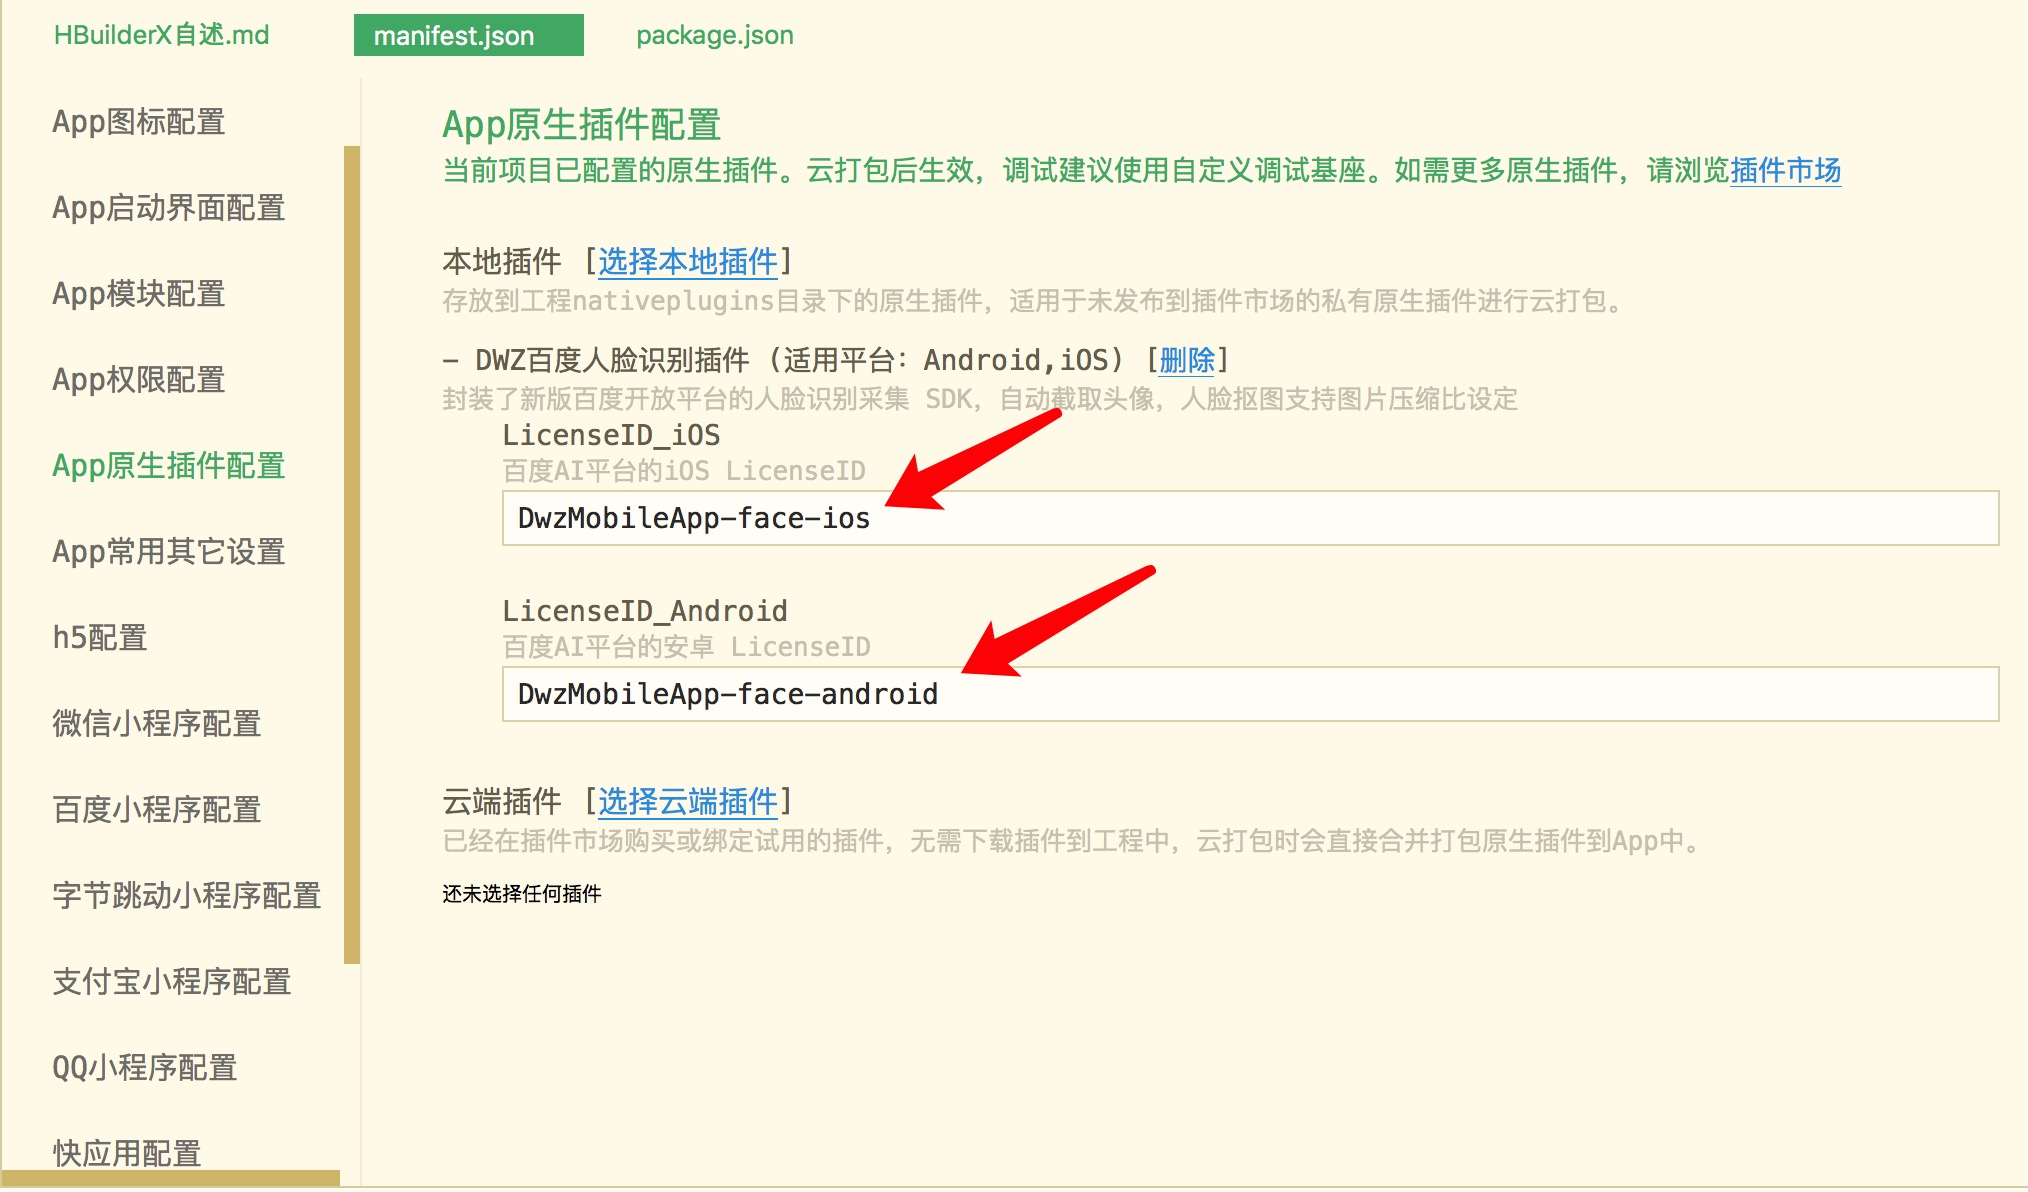
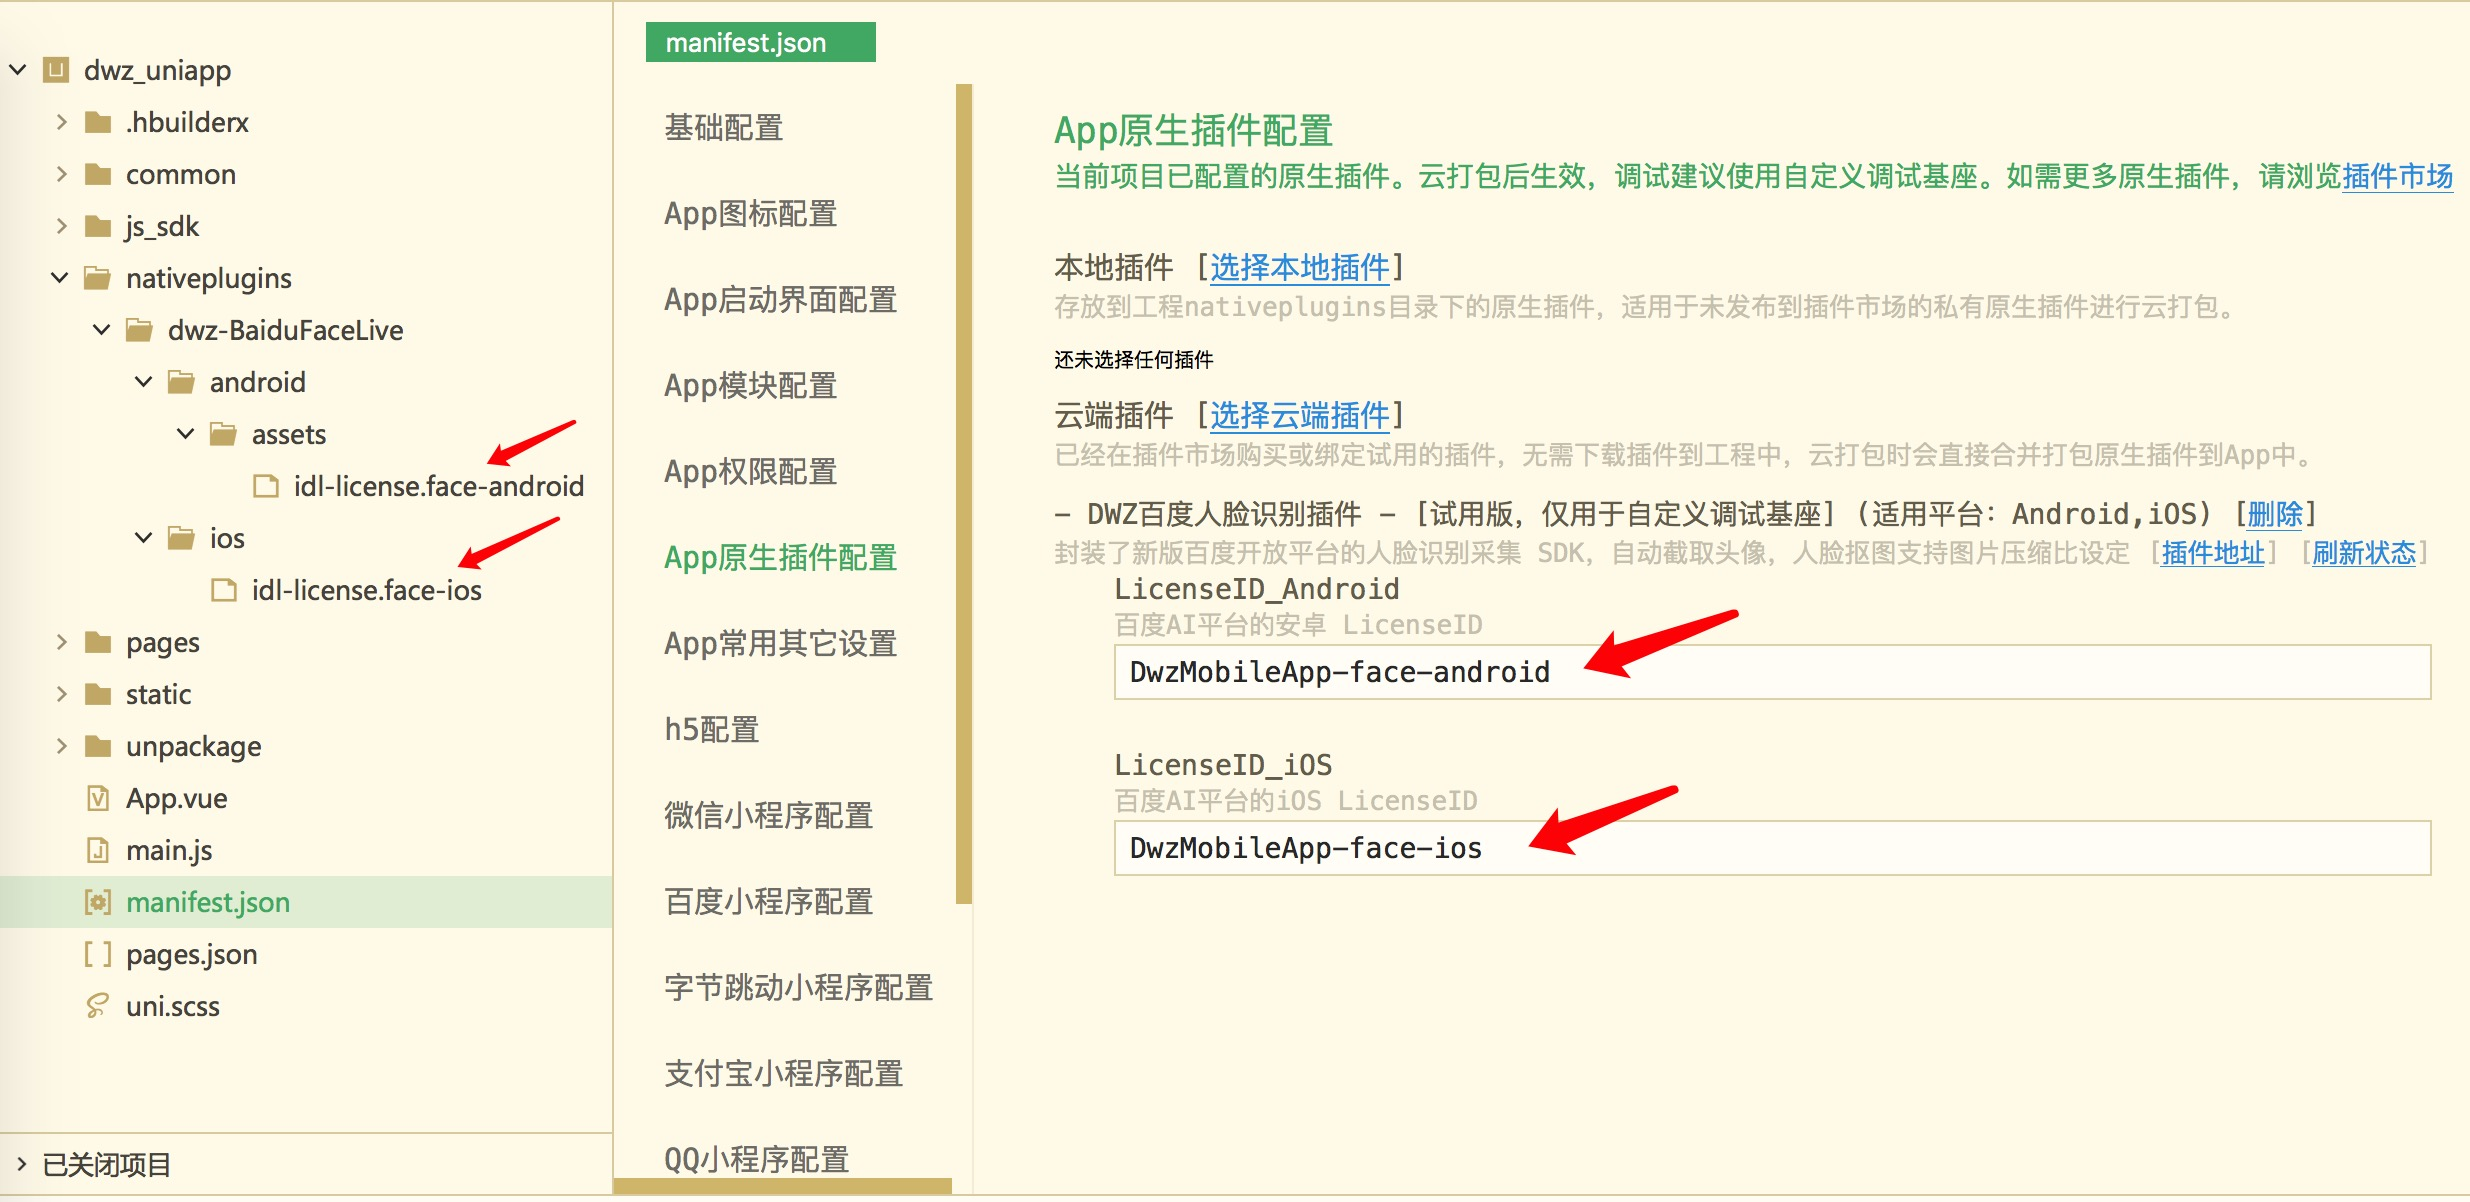
dev

diff --git a/doc/dcloud/dwzBaiduFaceLive/_doc.md b/doc/dcloud/dwzBaiduFaceLive/_doc.md
@@ -1,62 +1,47 @@
 <p style="color: #ccc; margin-bottom: 30px;">来自于：DWZ Mobile</p>
 
-<div class="outline">
-
-[faceLiveness](#a1)
-
-[faceDetect](#a2)
-
-</div>
-
-# **示例**
-
-为帮助用户更好更快的使用插件，维护了一个[示例](https://dwzteam.gitee.io/dwz_mobile_doc_v1/#/doc/dcloud/dwzBaiduFaceLive/doc)，示例中包含示例代码、知识点讲解、注意事项等，供您参考。
-
-[插件配套百度授权包配制](https://dwzteam.gitee.io/dwz_mobile_doc_v1/#/doc/dcloud/dwzBaiduFaceLive/doc)
-
-[git 示例](https://gitee.com/dwzteam/dwz_mobile_app)
-
 # **概述**
 
 **dwz-BaiduFaceLive 插件概述**
 
-本插件封装了新版百度开放平台的人脸识别客户端 SDK(活体检测)，支持活体识别和普通识别 2 种方式。
-支持人脸识别截取头像，支持人脸图片分辨率设置、压缩比设置，从而解决了某些第三方实名认证接口图像大小不能超过 20K 的问题。
-人脸识别界面自带返回键，使用过程中随时可以退出人脸识别界面。
-插件使用含技术支持，远程协助调试插件请加微信沟通
-
-- 本插件封装了新版百度开放平台的人脸识别采集 SDK
+- 封装了新版百度开放平台的人脸识别采集 SDK
+  - 包含活体动作 `faceLiveness()`
+  - 不包含活体动作 `faceDetect()`
 - 考虑灵活度问题，本插件只作人脸采集，人脸识别成功后生成 base64 头像图片，开发者可以配合自己的服务端接口实现具体的业务需求，如（实名认证、刷脸登录、人脸识别备案等）
 - 人脸识别后自动截取头像，人脸抠图支持压缩比设定，从而解决了某些第三方实名认证接口图像大小不能超过 20K 的问题
 - 人脸识别抠图分辨率可配制 高度 50~1200 像素，抠图高的设定，根据高度自动计算宽度（宽度=高度\*3/4）
 - 人脸识别界面自带返回键，使用过程中随时可以退出人脸识别界面
 - 可以免费从百度 AI 平台获取人脸采集证书，本插件针对一个 APP **一次购买永久使用**
-- 跨平台支持（Android & iOS）
-- [dwzBaiduFaceLive【apicloud】版本](/doc/apicloud/dwzBaiduFaceLive/doc.md)
+- 跨平台支持（Android & iOS）iOS 端与 Android 端 JS 接口保持一致
+- 接口支持 debug 参数设置，方便排查百度证书配制相关问题
 - **插件使用含技术支持，远程协助调试插件请加微信沟通 17767167745**
 
-**插件使用攻略**
+# **对接步骤**
 
-使用之前须从百度开放平台申请开发者账号并完成企业认证，获取 LicenseID 和 LicenseFileName。百度 AI 开放平台接入流程参考[百度 AI 开放平台](https://console.bce.baidu.com/ai/?_=1524383952610#/ai/face/overview/index)
+为帮助用户更好更快的使用插件，点击查看[dwz-BaiduFaceLive 插件详细文档](https://dwzteam.gitee.io/dwz_mobile_doc_v1/#/doc/dcloud/dwzBaiduFaceLive/doc)，包含示例代码、知识点讲解、注意事项等，供您参考。
 
-## **License 百度 AI 平台证书文件配制注意事项**
+1. 使用之前须从百度开放平台申请开发者账号并完成企业认证，获取 LicenseID 和 LicenseFileName。[百度开发平台控制台](https://console.bce.baidu.com/ai/#/ai/face/overview/index)
+   ![](https://dwzteam.gitee.io/dwz_mobile_doc_v1/_media/apicloud/dwzBaiduFaceLive/11.jpg)
+2. 百度 AI 平台人脸采集 License 文件放到 HBuilderX 工程目录中
 
-HBuilderX 中加入原生插件 dwz-BaiduFaceLive 后，插件面板上填写 LicenseID_Android、LicenseID_iOS
+- iOS 百度证书：`nativeplugins/dwz-BaiduFaceLive/android/assets/idl-license.face-android`
+- 安卓百度证书：`nativeplugins/dwz-BaiduFaceLive/ios/idl-license.face-ios`
 
-<div id="a1"></div>
+3. HBuilderX 工程 manifest.json --> App 原生配制 --> 选择云端插件 --> 插件市场找到 dwz-BaiduFaceLive
+4. HBuilderX 工程引入原生插件 dwz-BaiduFaceLive 后，插件面板上填写 LicenseID_Android、LicenseID_iOS
+   ![](https://dwzteam.gitee.io/dwz_mobile_doc_v1/_media/dcloud/dwzBaiduFaceLive/conf-1.jpg)
+5. 配制自定义基座打包，注意 App 包名、证书和百度 AI 平台证书一致
+6. 前端代码调用插件
 
-# **faceLiveness**
+# **JS 接口说明**
+
+## faceLiveness(options, callback)
 
 包含活体动作人脸识别，活体参数可配制，至少需要配制一个活体动作
 
-faceLiveness({cropType: 1, cropHeight: 300, quality: 70, eye: true}, callback(ret, err){})
+### options 参数说明见`示例代码`
 
-## callback(ret)
-
-ret：
-
-- 类型：JSON 对象
-- 内部字段：
+### callback(ret)
 
 ```json
 {
@@ -66,12 +51,7 @@ ret：
 }
 ```
 
-err：
-
-- 类型：JSON 对象
-- 内部字段：没用到
-
-## 示例代码
+### 示例代码
 
 ```js
 const module = uni.requireNativePlugin("dwz-BaiduFaceLive");
@@ -94,26 +74,17 @@ module.faceLiveness(
 );
 ```
 
-## 可用性
+### 可用性
 
 iOS 系统，Android 系统
 
-可提供的 1.0.0 及更高版本
-
-<div id="a2"></div>
-
-# **faceDetect**
+## faceDetect(options, callback)
 
 不包含活体动作人脸识别
 
-faceDetect({cropType: 1, cropHeight: 300, quality: 70}, callback(ret, err){})
+### options 参数说明见`示例代码`
 
-## callback(ret)
-
-ret：
-
-- 类型：JSON 对象
-- 内部字段：
+### callback(ret)
 
 ```json
 {
@@ -123,12 +94,7 @@ ret：
 }
 ```
 
-err：
-
-- 类型：JSON 对象
-- 内部字段：没用到
-
-## 示例代码
+### 示例代码
 
 ```js
 const module = uni.requireNativePlugin("dwz-BaiduFaceLive");
@@ -145,8 +111,6 @@ module.faceDetect(
 );
 ```
 
-## 可用性
+### 可用性
 
 iOS 系统，Android 系统
-
-可提供的 1.0.0 及更高版本

diff --git a/doc/dcloud/dwzBaiduFaceLive/doc.md b/doc/dcloud/dwzBaiduFaceLive/doc.md
@@ -5,7 +5,7 @@ DWZ 百度人脸识别插件【dcloud】
 > ## 功能介绍
 
 - https://ext.dcloud.net.cn/plugin?id=4794
-- 本插件封装了新版百度开放平台的人脸识别采集 SDK：
+- 封装了新版百度开放平台的人脸识别采集 SDK：
   - 包含活体动作 [faceLiveness](#a1)
   - 不包含活体动作 [faceDetect](#a2)
 - 考虑灵活度问题，本插件只作人脸采集，人脸识别成功后生成 base64 头像图片，开发者可以配合自己的服务端接口实现具体的业务需求，如（实名认证、刷脸登录、人脸识别备案等）
@@ -13,7 +13,8 @@ DWZ 百度人脸识别插件【dcloud】
 - 人脸识别抠图分辨率可配制 高度 50~1200 像素，抠图高的设定，根据高度自动计算宽度（宽度=高度\*3/4）
 - 人脸识别界面自带返回键，使用过程中随时可以退出人脸识别界面
 - 可以免费从百度 AI 平台获取人脸采集证书，本插件针对一个 APP **一次购买永久使用**
-- 跨平台支持（Android & iOS）
+- 跨平台支持（Android & iOS）iOS 端与 Android 端 JS 接口保持一致
+- 接口支持 debug 参数设置，方便排查百度证书配制相关问题
 - [dwzBaiduFaceLive【apicloud】版本](/doc/apicloud/dwzBaiduFaceLive/doc.md)
 - **插件使用含技术支持，远程协助调试插件请加微信沟通**
 
@@ -33,15 +34,11 @@ DWZ 百度人脸识别插件【dcloud】
    ![](../../../_media/apicloud/dwzBaiduFaceLive/11.jpg)
 2. 百度 AI 平台人脸采集 License 文件放到 HBuilderX 工程目录中
 
-   ![](../../../_media/dcloud/dwzBaiduFaceLive/nativeplugins-1.jpg?width=300)
-
-```
-nativeplugins/dwz-BaiduFaceLive/android/assets/idl-license.face-android
-nativeplugins/dwz-BaiduFaceLive/ios/idl-license.face-ios
-```
+- iOS 百度证书：`nativeplugins/dwz-BaiduFaceLive/android/assets/idl-license.face-android`
+- 安卓百度证书：`nativeplugins/dwz-BaiduFaceLive/ios/idl-license.face-ios`
 
 3. HBuilderX 工程 manifest.json --> App 原生配制 --> 选择云端插件 --> 插件市场找到 dwz-BaiduFaceLive
-4. HBuilderX 中加入原生插件 dwz-BaiduFaceLive 后，插件面板上填写 LicenseID_Android、LicenseID_iOS
+4. HBuilderX 工程引入原生插件 dwz-BaiduFaceLive 后，插件面板上填写 LicenseID_Android、LicenseID_iOS
    ![](../../../_media/dcloud/dwzBaiduFaceLive/conf-1.jpg)
 5. 配制自定义基座打包，注意 App 包名、证书和百度 AI 平台证书一致
 6. 前端代码调用插件

diff --git a/doc/apicloud/dwzBaiduFaceLive/doc.md b/doc/apicloud/dwzBaiduFaceLive/doc.md
@@ -5,7 +5,7 @@ DWZ 百度人脸识别模块【apicloud】
 > ## 功能介绍
 
 - https://www.apicloud.com/mod_detail/dwzBaiduFaceLive
-- 本模块封装了新版百度开放平台的人脸识别采集 SDK：
+- 封装了新版百度开放平台的人脸识别采集 SDK：
   - 包含活体动作 [faceLiveness](#a1)
   - 不包含活体动作 [faceDetect](#a2)
 - 考虑灵活度问题，本模块只作人脸采集，人脸识别成功后生成 base64 头像图片，开发者可以配合自己的服务端接口实现具体的业务需求，如（实名认证、刷脸登录、人脸识别备案等）
@@ -13,7 +13,8 @@ DWZ 百度人脸识别模块【apicloud】
 - 人脸识别抠图分辨率可配制 高度 50~1200 像素，抠图高的设定，根据高度自动计算宽度（宽度=高度\*3/4）
 - 人脸识别界面自带返回键，使用过程中随时可以退出人脸识别界面
 - 可以免费从百度 AI 平台获取人脸采集证书，本模块针对一个 APP **一次购买永久使用**
-- 跨平台支持（Android & iOS）
+- 跨平台支持（Android & iOS）iOS 端与 Android 端 JS 接口保持一致
+- 接口支持 debug 参数设置，方便排查百度证书配制相关问题
 - [dwzBaiduFaceLive 模块前端调用示例 biz.faceBaidu.js](https://github.com/dwzteam/dwz_mobile_app/blob/master/widget/js/biz.baiduFace.js)
 - [dwzBaiduFaceLive【dcloud】版本](/doc/dcloud/dwzBaiduFaceLive/doc.md)
 - **模块使用含技术支持，远程协助调试模块请加微信沟通**
